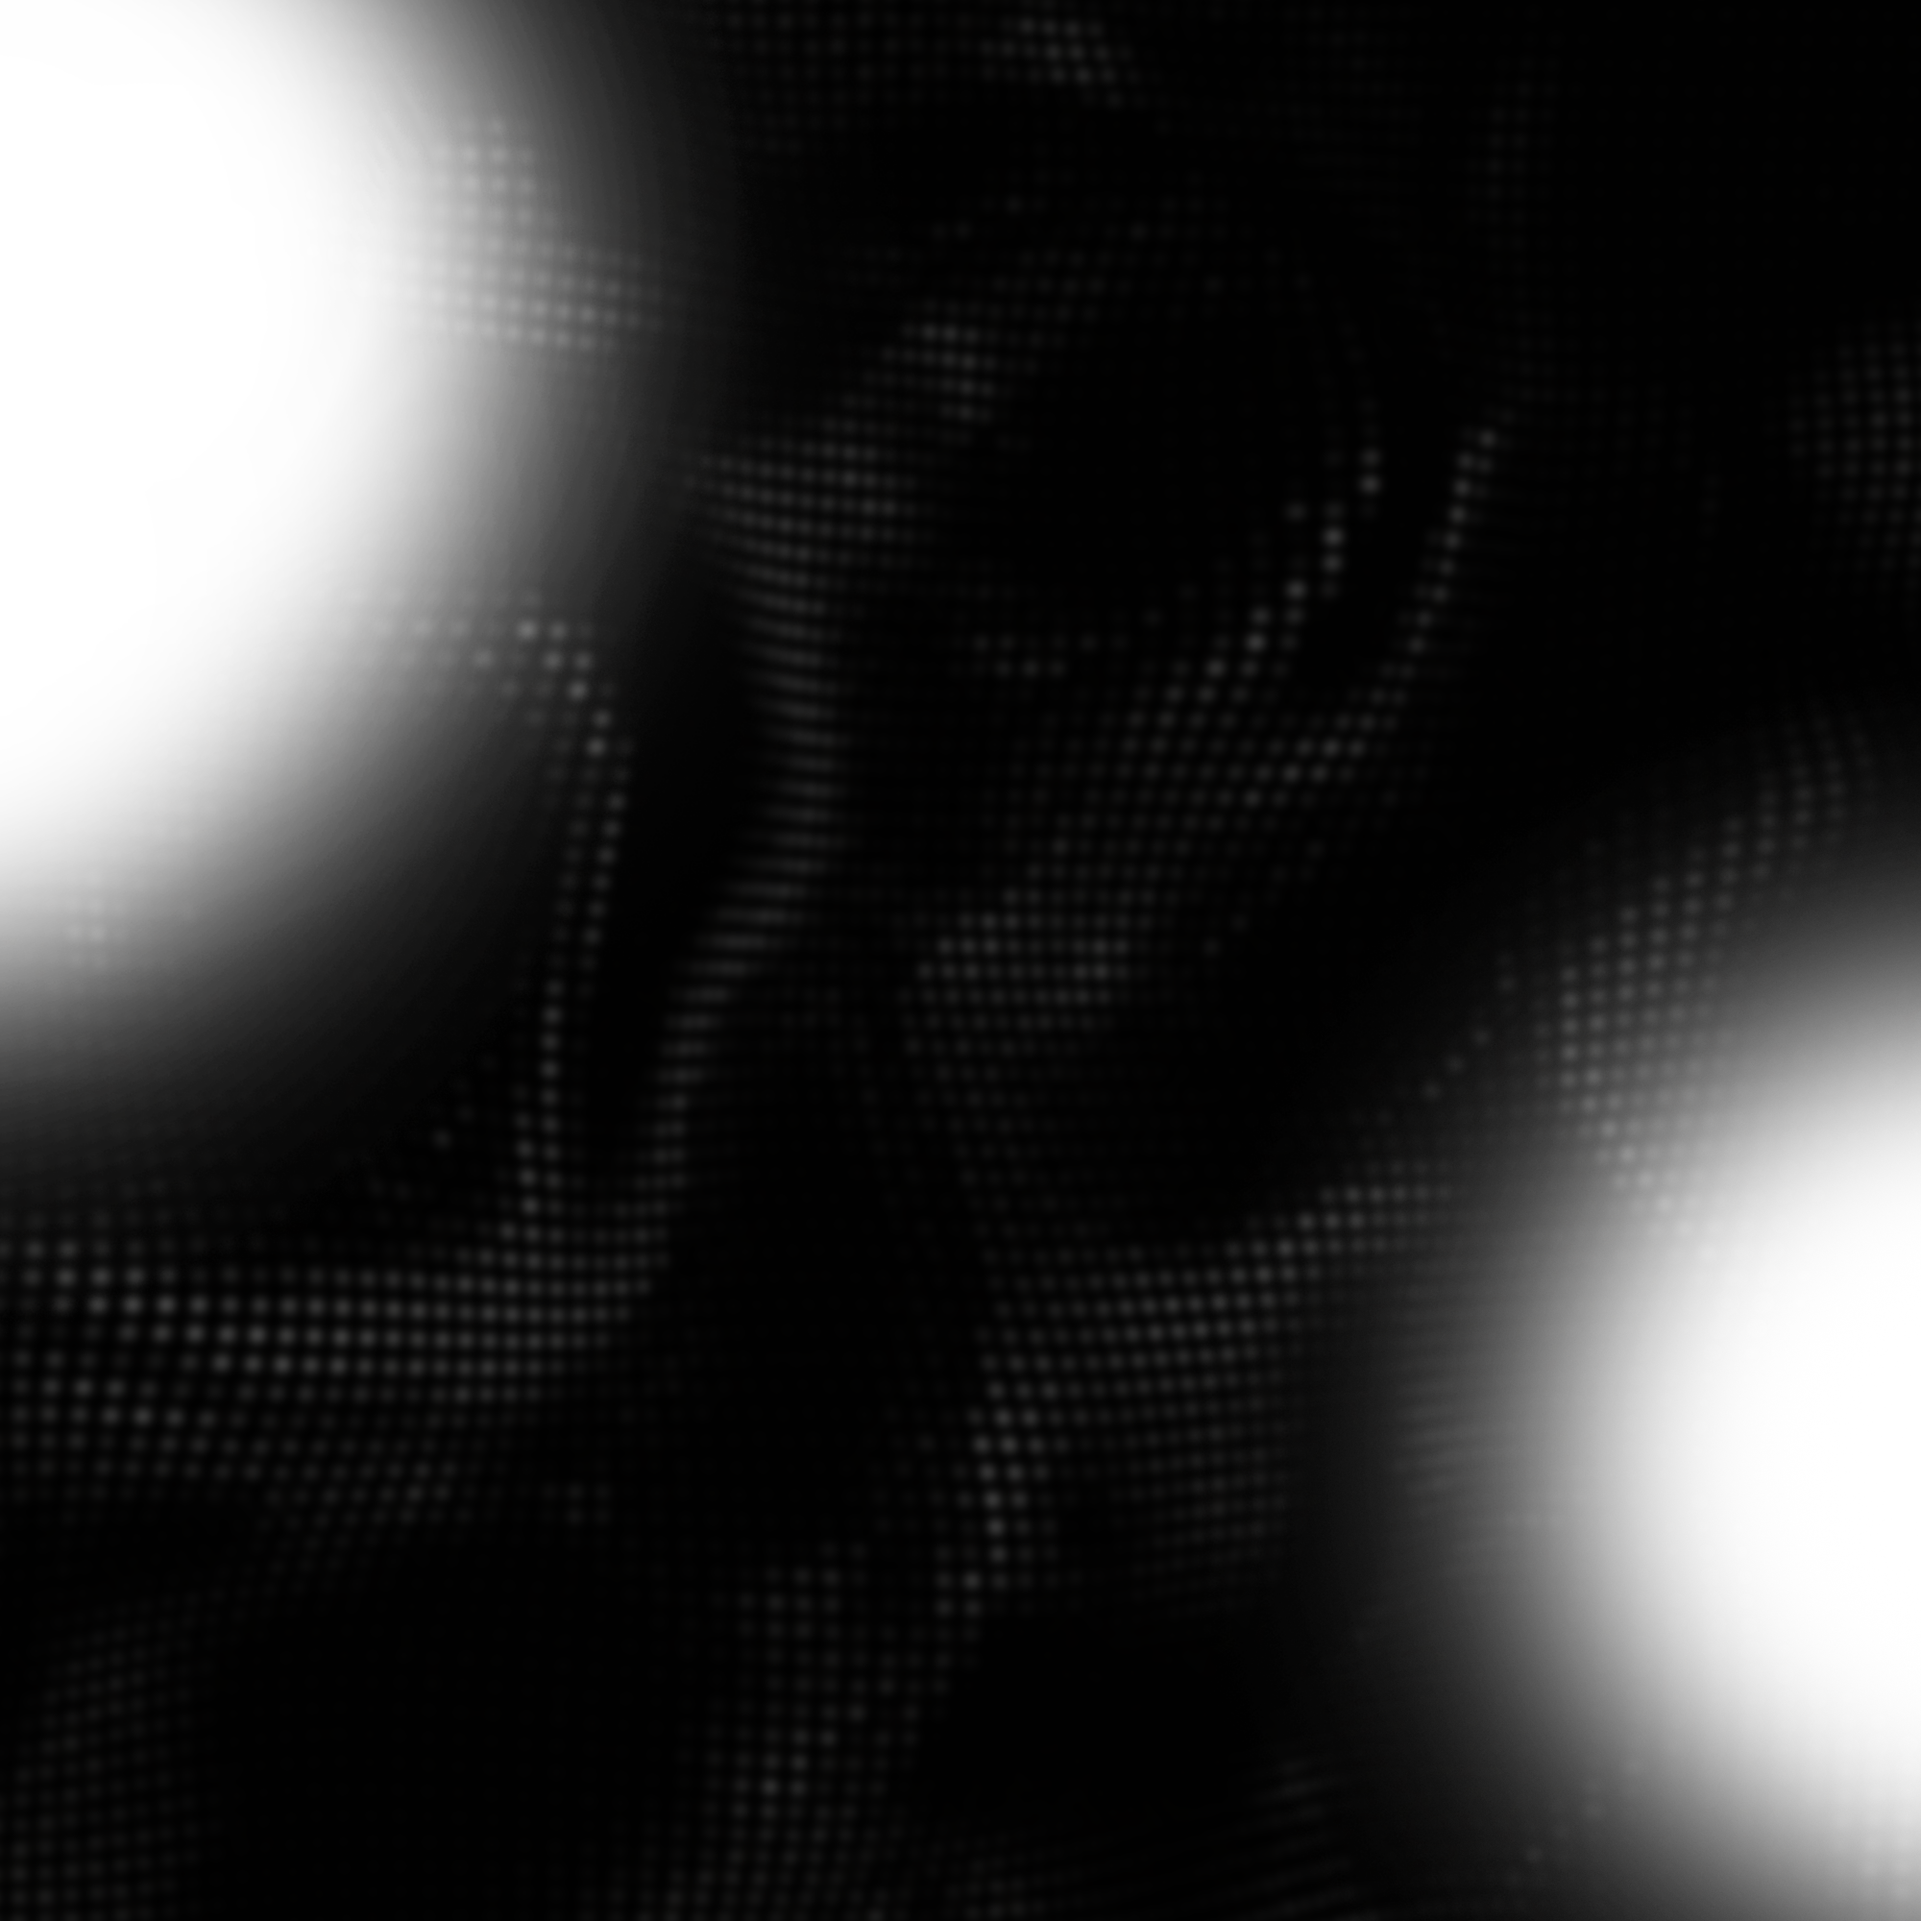
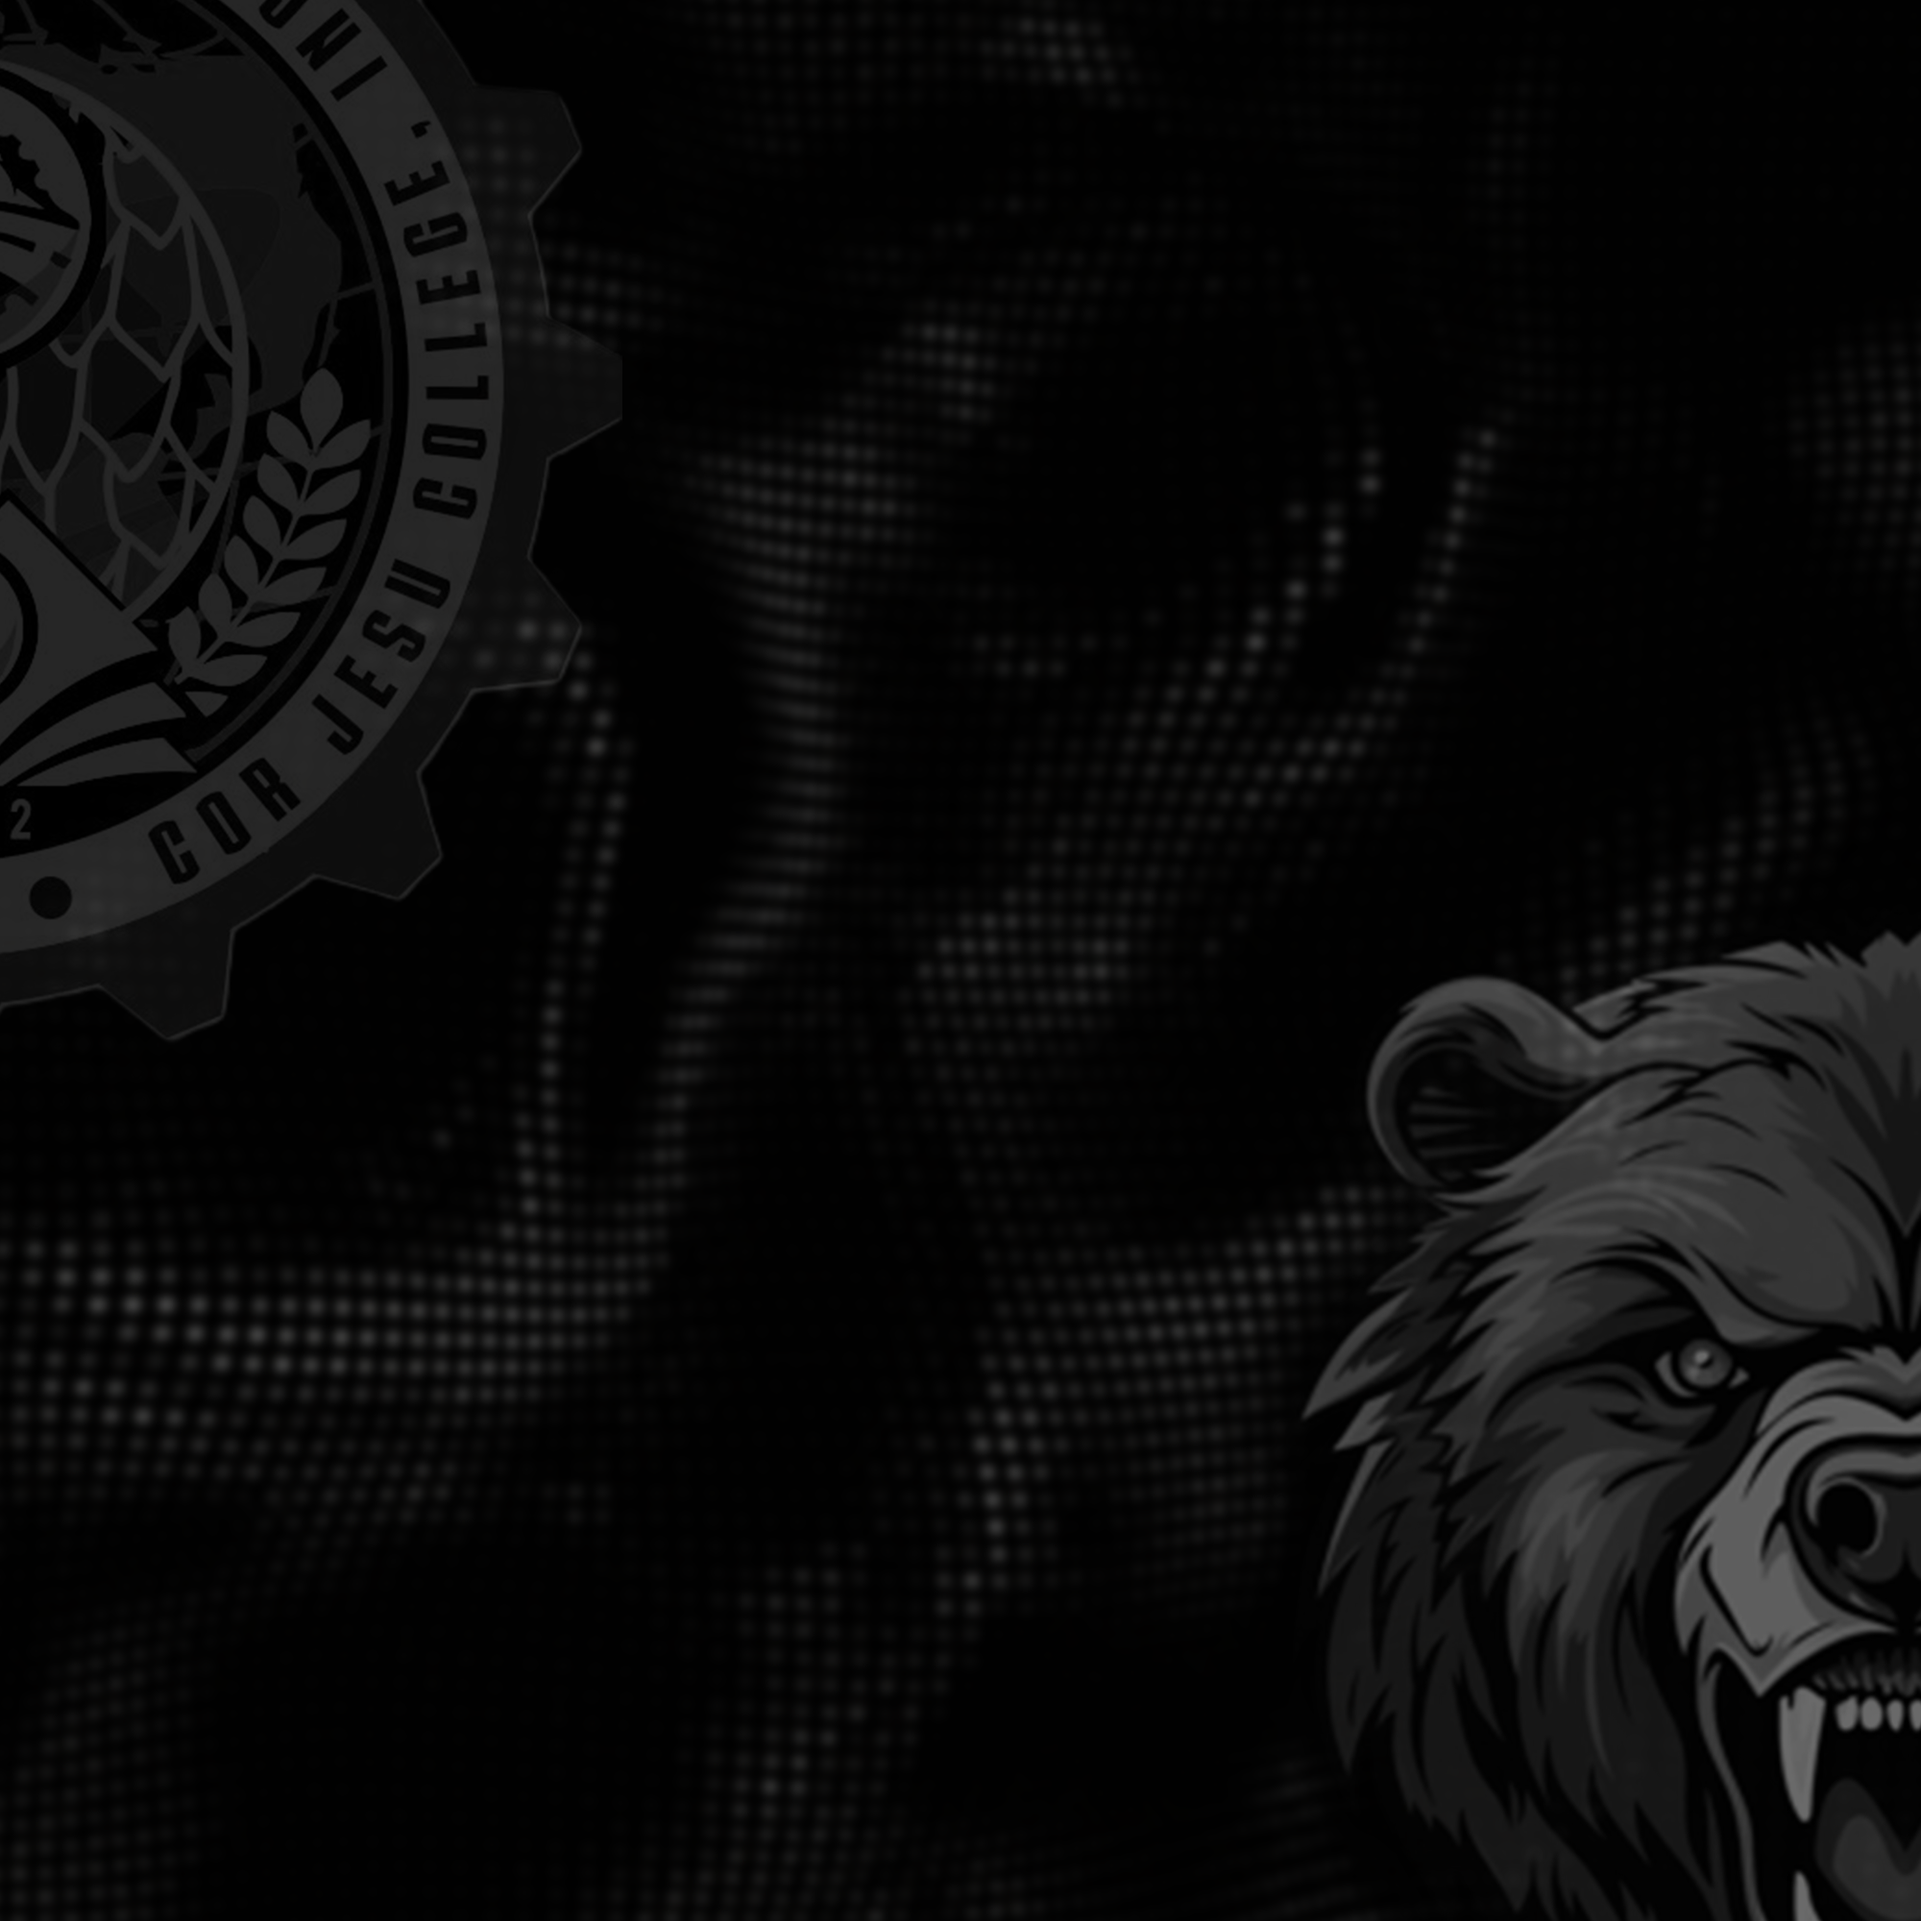
feat(auth): BG pattern front.png as the sole panel background
- .auth-brand-panel now uses the updated bg-pattern-front.png directly
  as its full-bleed background (dark fallback kept)
- Remove the watermark logo/bear PNG layers and the pattern overlay
  shell — panel is background + crisp HTML text only
- Delete unused assets: black-bg-back.png, logo-engineering.png,
  bear.png, login-bg.png
- Preserve the refined left-aligned typography and mobile sizing

Changed region(s): [[0.0, 0.0, 0.372, 0.62], [0.682, 0.434, 1.0, 1.0]]

diff --git a/client/styles/main.css b/client/styles/main.css
@@ -182,8 +182,8 @@ html body .hidden {
 .auth-brand-panel {
   position: relative;
   flex: 0 0 50%;
-  background-color: #0D0E10; /* fallback while the plate loads */
-  background-image: url('../assets/black-bg-back.png');
+  background-color: #0D0E10; /* fallback while the pattern loads */
+  background-image: url('../assets/bg-pattern-front.png');
   background-size: cover;
   background-position: center;
   border-right: 1px solid var(--border-default);
@@ -193,37 +193,7 @@ html body .hidden {
   justify-content: flex-start;
 }
 
-/* Layer 2 — geometry grid pattern */
-.auth-pattern-overlay {
-  position: absolute;
-  inset: 0;
-  background-image: url('../assets/bg-pattern-front.png');
-  background-size: cover;
-  background-position: center;
-  opacity: 0.4;
-  pointer-events: none;
-}
-
-/* Layer 3 — faint watermark graphics */
-.auth-watermark {
-  position: absolute;
-  opacity: 0.06;
-  pointer-events: none;
-  user-select: none;
-}
-.auth-watermark-logo {
-  top: -90px;
-  left: -100px;
-  width: 480px;
-  transform: rotate(-15deg);
-}
-.auth-watermark-bear {
-  bottom: -150px;
-  right: -150px;
-  width: 580px;
-}
-
-/* Layer 4 — foreground branding content */
+/* Foreground branding content */
 .auth-brand-content {
   position: relative;
   z-index: 2;
@@ -362,17 +332,6 @@ html body .hidden {
     display: flex;
     align-items: center;
     justify-content: flex-start;
-  }
-  .auth-watermark-logo {
-    top: -60px;
-    left: -70px;
-    width: 280px;
-    transform: rotate(-15deg);
-  }
-  .auth-watermark-bear {
-    bottom: -100px;
-    right: -100px;
-    width: 380px;
   }
   .auth-brand-content {
     padding: 2rem;

diff --git a/client/index.html b/client/index.html
@@ -17,16 +17,8 @@
   <!-- AUTH SCREEN — Split Layout -->
   <div id="auth-screen" class="screen active">
     <!-- Left Brand Panel -->
-    <!-- Left Brand Panel — layered composition: plate -> pattern -> watermarks -> text -->
+    <!-- Left Brand Panel — pattern background + crisp HTML text -->
     <div class="auth-brand-panel">
-      <!-- Layer 2: geometry grid overlay -->
-      <div class="auth-pattern-overlay"></div>
-
-      <!-- Layer 3: faint watermark graphics -->
-      <img src="assets/logo-engineering.png" alt="" class="auth-watermark auth-watermark-logo" />
-      <img src="assets/bear.png" alt="" class="auth-watermark auth-watermark-bear" />
-
-      <!-- Layer 4: foreground branding content -->
       <div class="auth-brand-content">
         <div class="auth-identity">
           <h1>COLLEGE OF ENGINEERING</h1>
